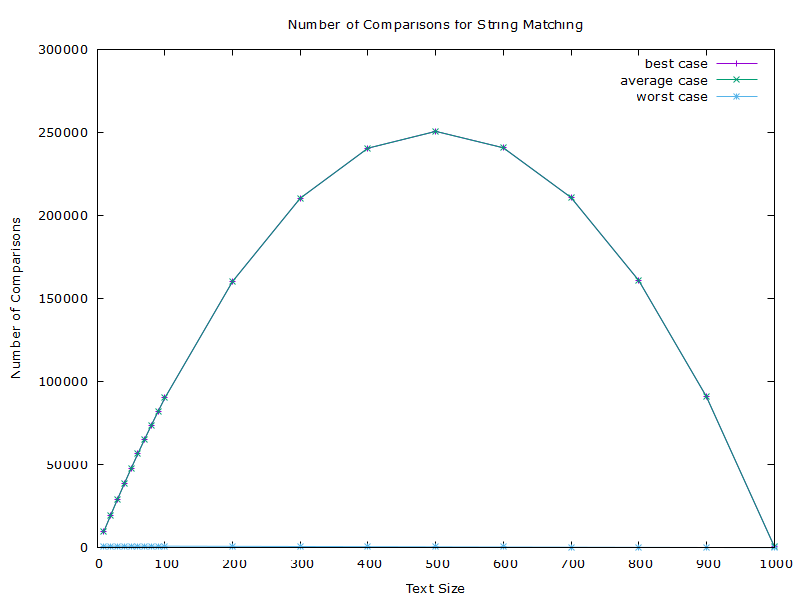
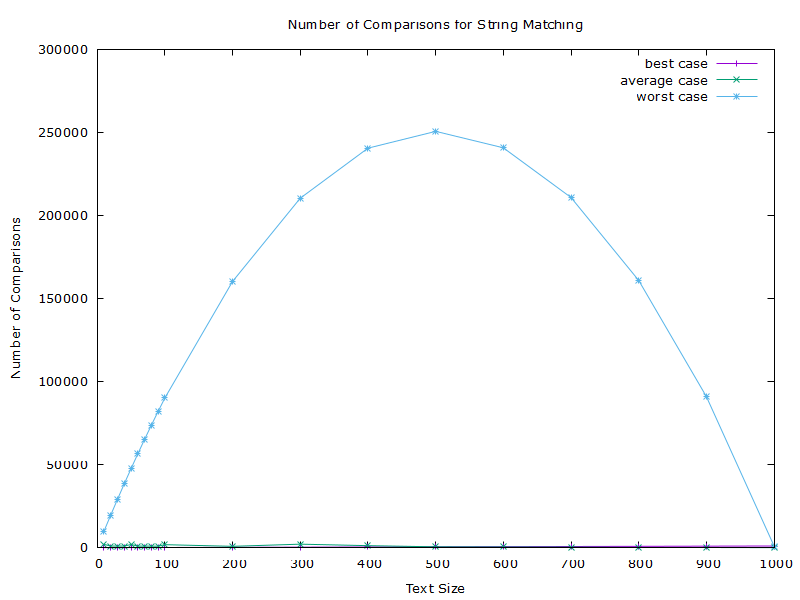
Streak purpose again, done with the string matching.

diff --git a/4.StringMatching/StringMatchingBenchmark.java b/4.StringMatching/StringMatchingBenchmark.java
@@ -8,14 +8,15 @@ public class StringMatchingBenchmark {
         int count = 0;
         for (int i = 0; i <= text.length() - pattern.length(); i++) {
             int j = 0;
-            while (j < pattern.length() && pattern.charAt(j) == text.charAt(i + j)) {
+            while (j < pattern.length()) {
                 count++;
+                if (pattern.charAt(j) != text.charAt(i + j))
+                    break;
+
                 j++;
             }
-            // Increment the count for the mismatch or end of pattern
-            if (j < pattern.length()) {
-                count++;
-            }
+            if (j == pattern.length())
+                return count;
         }
         return count;
     }
@@ -38,15 +39,16 @@ public class StringMatchingBenchmark {
 
                 int best = stringMatching(text.toString(), pattern.toString());
 
-                pattern.setCharAt(length - 1, 'b'); // Average case: last character different
-                int average = stringMatching(text.toString(), pattern.toString());
-
-                pattern.setCharAt(length - 1, 'a'); // Reset pattern for worst case calculation
-                for (int i = 0; i < length; i++) {
-                    pattern.setCharAt(i, 'b'); // Worst case: all characters different
-                }
+                pattern.setCharAt(length - 1, 'b'); // Reset pattern for worst case calculation
                 int worst = stringMatching(text.toString(), pattern.toString());
 
+                for (int i = 0; i < length; i++) {
+                    char[] chars = { 'a', 'b', 'c' };
+                    pattern.setCharAt(i, chars[(int) (Math.random() * chars.length)]);
+
+                }
+
+                int average = stringMatching(text.toString(), pattern.toString());
                 file.write(length + " " + best + " " + average + " " + worst + "\n");
 
                 length += length < 100 ? 10 : 100;
